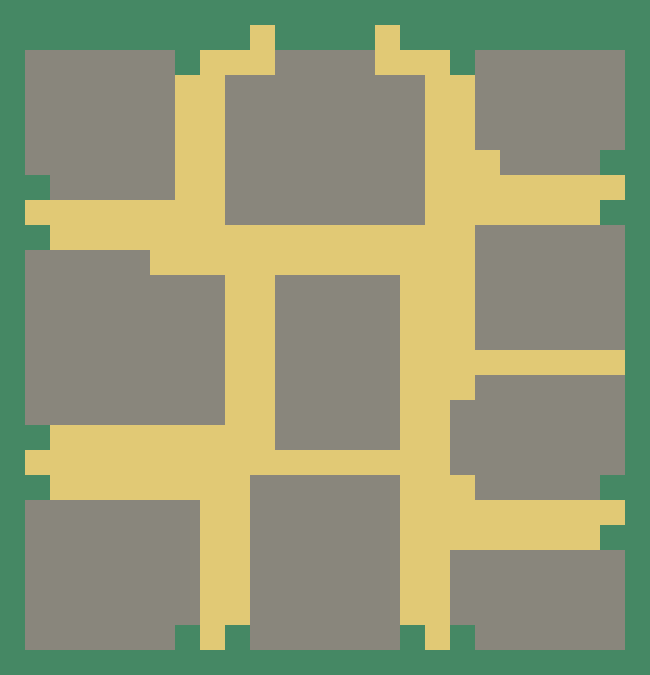
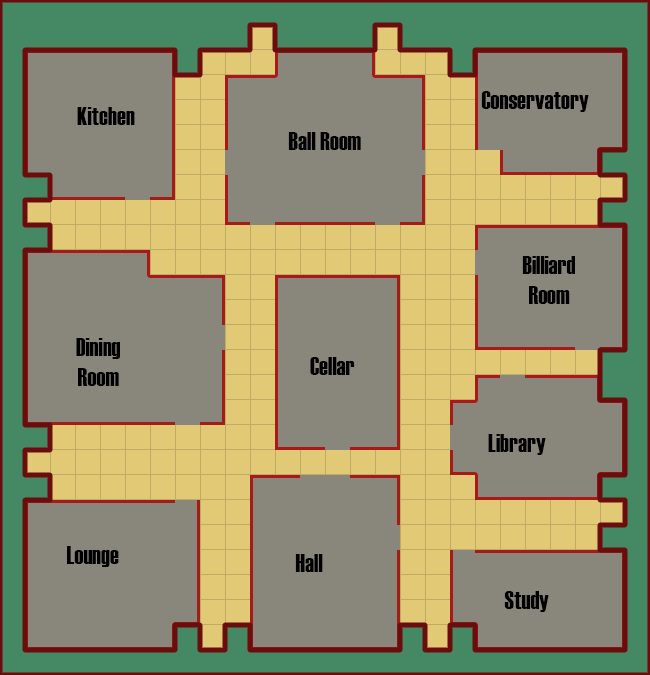
Temporary UI changes

diff --git a/src/com/Team11/Cluedo/UI/GameScreen.java b/src/com/Team11/Cluedo/UI/GameScreen.java
@@ -1,9 +1,7 @@
 package com.Team11.Cluedo.UI;
 
-import com.Team11.Cluedo.Board.Board;
 import com.Team11.Cluedo.Suspects.Players;
 import com.Team11.Cluedo.UI.Panel.BackgroundPanel;
-import com.Team11.Cluedo.Suspects.Suspect;
 
 import javax.swing.*;
 import javax.swing.border.TitledBorder;
@@ -17,7 +15,11 @@ public class GameScreen implements Screen {
     private JPanel mainPanel;
     private JTextArea infoOutput;
 
-    public GameScreen() throws IOException{
+    private Players gamePlayers;
+
+    public GameScreen(Players gamePlayers) throws IOException{
+        this.gamePlayers = gamePlayers;
+
         this.createScreen();
         this.setupScreen();
         this.displayScreen();
@@ -62,12 +64,13 @@ public class GameScreen implements Screen {
         contentPanel.add(infoPanel, gbc);
 
 
-        Board mapPanel = setupBoardPanel();
+        Players boardPanel = setupBoardPanel();
+        //JPanel boardPanel = setupBoardPanel();
 
         gbc.gridx = 0; gbc.gridy = 0;
         gbc.gridwidth = 10; gbc.gridheight = 10;
         gbc.fill = GridBagConstraints.BOTH;
-        contentPanel.add(mapPanel, gbc);
+        contentPanel.add(boardPanel, gbc);
 
         backgroundPanel.add(contentPanel);
         mainPanel.add(backgroundPanel);
@@ -87,17 +90,20 @@ public class GameScreen implements Screen {
         this.frame.dispose();
     }
 
-    private Board setupBoardPanel() {
+    private Players setupBoardPanel() {
 
         try {
-            Board boardPanel = new Board(25);
-            boardPanel.setLayout(new FlowLayout(FlowLayout.CENTER, 0,0));
+            JPanel boardPanel = new JPanel();
+
+            Players players = this.gamePlayers;
+
             ImageIcon boardImage = new ImageIcon(getClass().getResource("..\\Assets\\Board4.PNG"));
-            JLabel boardLabel = new JLabel("", boardImage, JLabel.CENTER);
-            boardPanel.add(boardLabel, BorderLayout.CENTER);
+            JLabel boardLabel = new JLabel(boardImage);
+            boardLabel.setBounds(0,0,boardImage.getIconWidth(), boardImage.getIconHeight());
+            boardPanel.add(boardLabel);
 
-
-            return boardPanel;
+            players.add(boardLabel);
+            return players;
         } catch (Exception e) {
             JOptionPane.showMessageDialog(null, "Error. com.Team11.Cluedo.Board Layout not found.");
             return null;

diff --git a/src/com/Team11/Cluedo/Cluedo.java b/src/com/Team11/Cluedo/Cluedo.java
@@ -2,33 +2,20 @@ package com.Team11.Cluedo;
 
 import com.Team11.Cluedo.Board.Board;
 import com.Team11.Cluedo.Suspects.Players;
-import com.Team11.Cluedo.Suspects.Suspect;
 import com.Team11.Cluedo.UI.GameScreen;
 
 import javax.swing.*;
-import java.awt.*;
 import java.io.IOException;
-import java.util.concurrent.ThreadLocalRandom;
 
 public class Cluedo {
 
     public static void main(String[] args) throws IOException{
 
         {
-            JFrame testFrame = new JFrame("Test");
-            testFrame.setDefaultCloseOperation(WindowConstants.EXIT_ON_CLOSE);
-            testFrame.setSize(800, 800);
-            Board bPanel = new Board(25);
-            Players players = new Players(1);
-            System.out.println("Players Created At: " + players.getPos(0) + " and " + players.getPos(0));
-            JLayeredPane test = new JLayeredPane();
-            test.add(bPanel) ;
-            test.add(players);
-            testFrame.add(players);
-            //testFrame.add(bPanel);
-            testFrame.pack();
-            testFrame.setVisible(true);
-            //GameScreen gameScreen = new GameScreen();
+            Board gameBoard = new Board(25);
+            Players gamePlayers = new Players(6);
+
+            GameScreen gameScreen = new GameScreen(gamePlayers);
         }
     }
 

diff --git a/src/com/Team11/Cluedo/Suspects/Suspect.java b/src/com/Team11/Cluedo/Suspects/Suspect.java
@@ -62,10 +62,9 @@ public class Suspect extends JComponent{
         System.out.println("Draw Called");
         g2.setColor(Color.RED);
 
-        g2.fill(new Ellipse2D.Double(x*25, y*25, 20, 20));
+        g2.fill(new Ellipse2D.Double((x*25)+7, (y*25)+7, 20, 20));
         //g2.fillRect(x*25, y*25, 20, 20);
         //g2.drawRect(x*25,y*25, 20, 20);
-
     }
 
     /**

diff --git a/src/com/Team11/Cluedo/Board/BoardPos.java b/src/com/Team11/Cluedo/Board/BoardPos.java
@@ -121,7 +121,7 @@ public class BoardPos extends JComponent{
             g2.setColor(Color.WHITE);
         }
 
-        g2.drawString(this.x + "," + this.y, x , y + 15);
+        //g2.drawString(this.x + "," + this.y, x , y + 15);
 
 
     }
